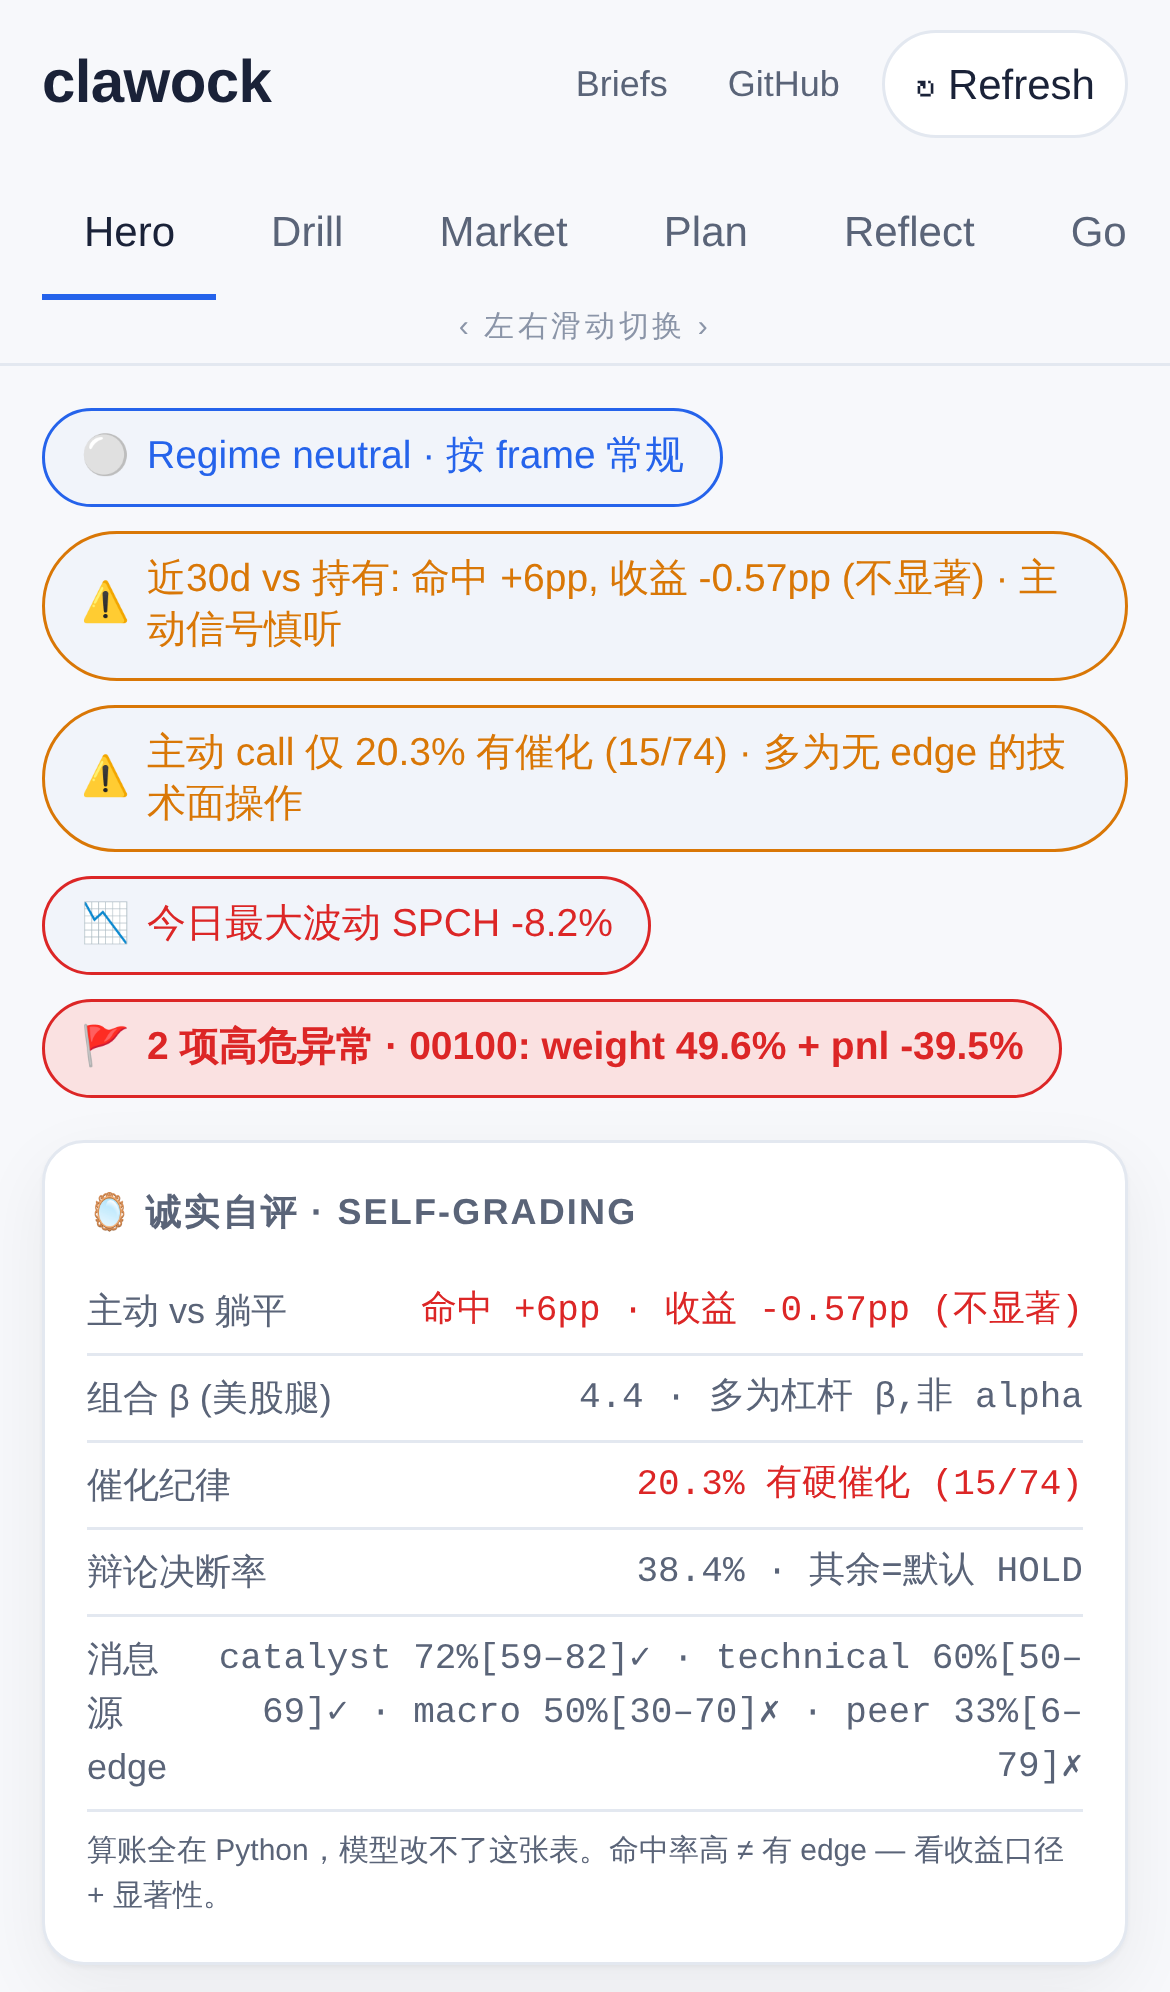
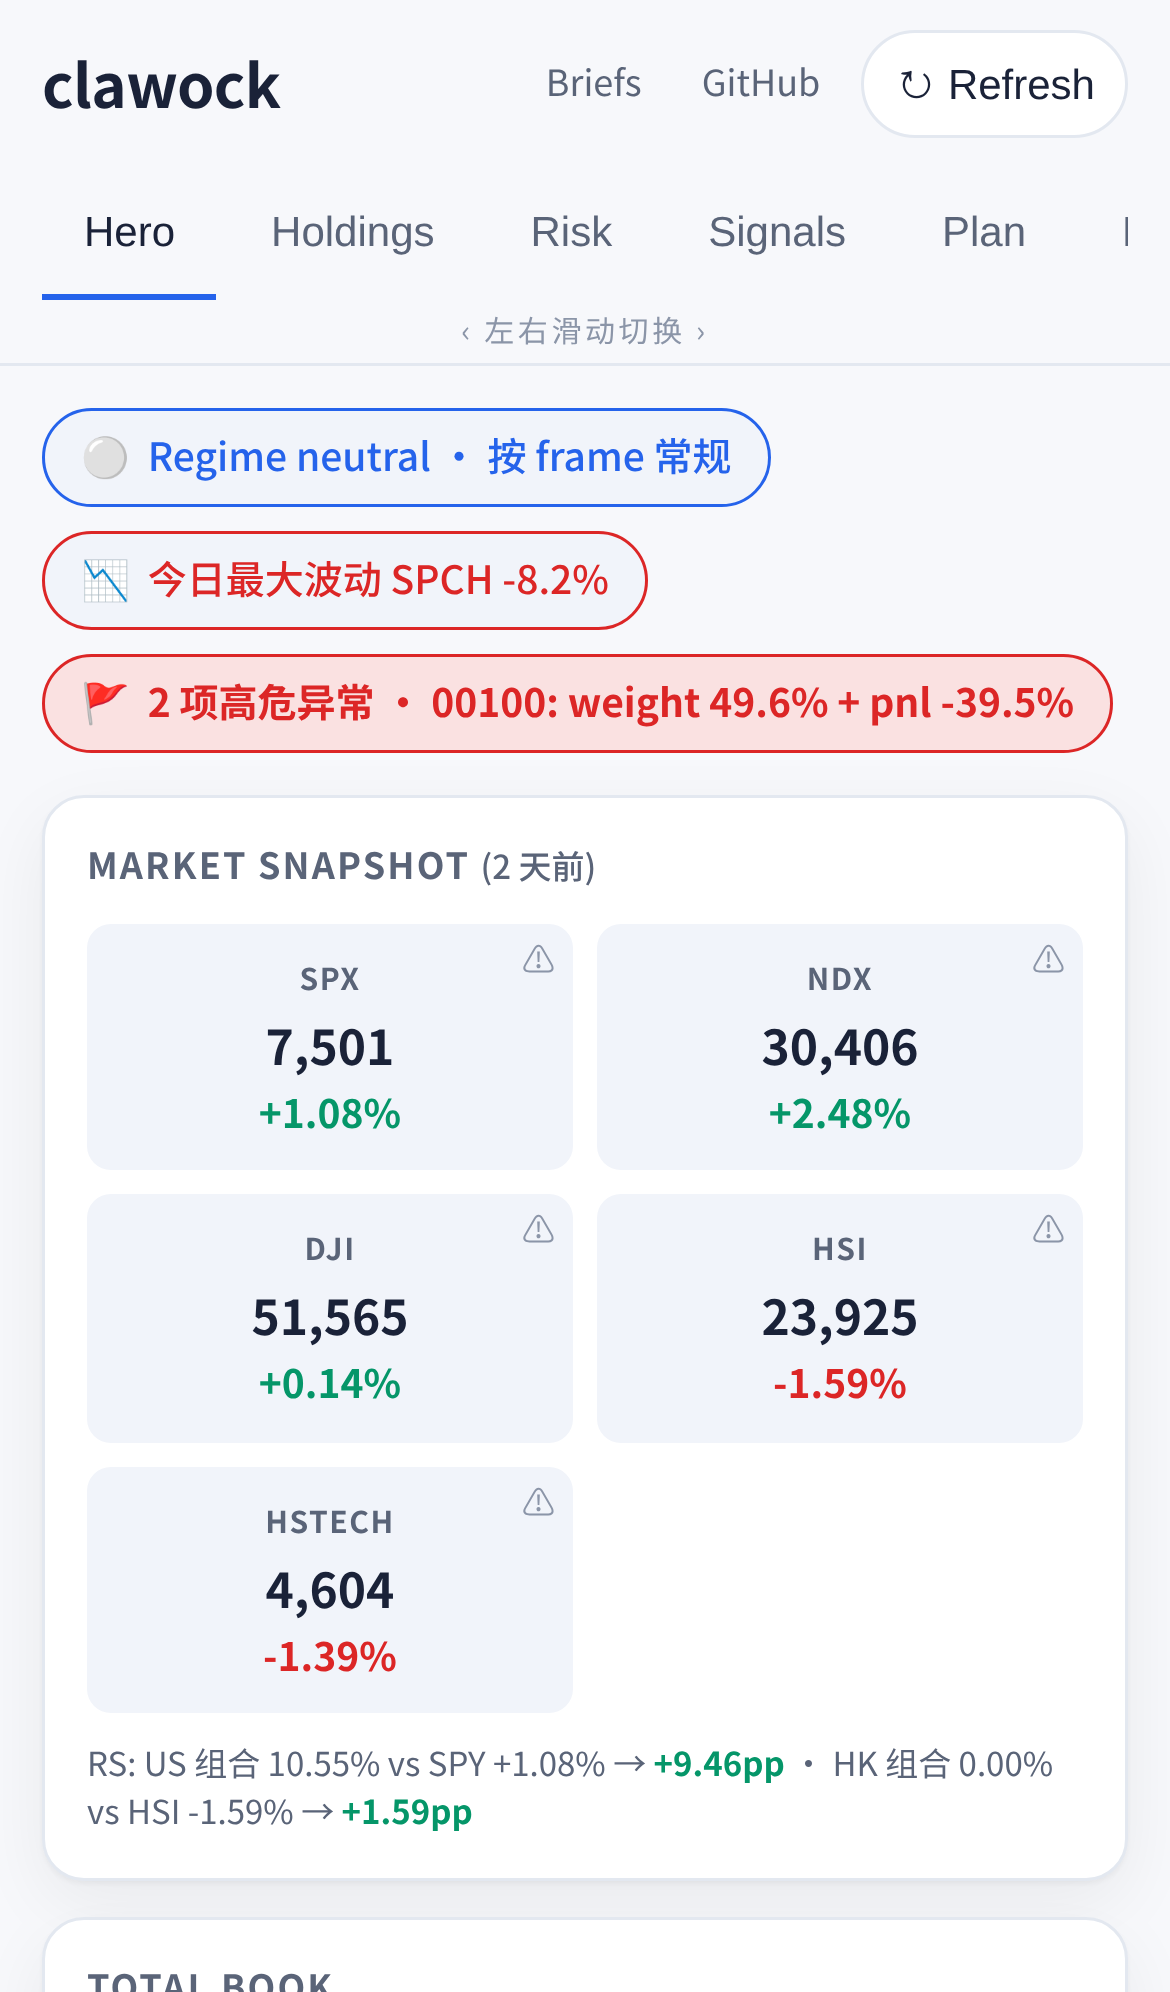
docs(readme): document shadow-backtest curve + refresh screenshots (English tabs)
• README (EN+ZH): add the '如果全听 AI' counterfactual curve to the honesty
  section — the Reflect-tab plot of active-only cumulative benefit (-33pp T+1)
  vs a do-nothing baseline; the visual proof of 'active calls underperform hold'.
• Regenerated docs/dashboard-preview.png + dashboard-mobile.png from the
  redesigned dashboard (6 tabs, English labels, slimmed Hero).
• shoot_dashboard.js: settle() waits on hero content, not a <canvas> — the Hero
  tab has no chart now (charts lazy-load per tab), so the old canvas wait would
  hang the full 45s on every weekly refresh.

diff --git a/scripts/data/shoot_dashboard.js b/scripts/data/shoot_dashboard.js
@@ -20,9 +20,14 @@ const URL = process.env.URL || 'https://kcnyu.github.io/clawock/';
 const OUT_DIR = process.env.OUT_DIR || 'docs';
 
 async function settle(page) {
-  // ECharts renders into <canvas>; wait for at least one to exist, then let animations finish.
-  await page.waitForSelector('canvas', { timeout: 45000 }).catch(() => {});
-  await page.waitForTimeout(3500);
+  // The landing (Hero) tab has NO chart since charts lazy-load per tab (2026-06-22),
+  // so the old canvas wait would hang the full 45s timeout. Wait for the hero panel
+  // to actually populate instead, then let layout/fonts settle.
+  await page.waitForFunction(
+    () => { const h = document.querySelector('[data-panel=hero]'); return h && h.textContent.trim().length > 200; },
+    { timeout: 45000 },
+  ).catch(() => {});
+  await page.waitForTimeout(2500);
 }
 
 (async () => {

diff --git a/README.md b/README.md
@@ -66,6 +66,8 @@ So I can tell you, with receipts, how the AI is *actually* doing:
 
 > Read that again: on this sample, **the model's active signals underperform simply holding.** The system *says so itself*, in public, because the scorecard is computed in Python and the LLM isn't allowed to fudge it. The honesty is the feature — most of the value of an "AI analyst" is knowing when to ignore it.
 
+**There's now a curve for it.** A counterfactual *"if you'd followed every call"* backtest (the LLM only advises — execution is always mine) reuses the same direction-signed benefit% the scorecard already logs, and plots it against a `do-nothing = 0` baseline on the **Reflect** tab. The active-only line sits **−33pp below doing nothing** (T+1; −46pp at T+5), while the "all signals" line's +474pp is almost entirely `hold` = market β. You can *watch* the active calls bleed relative to a hold.
+
 <sub>Numbers are point-in-time from `memory/calibration.csv`, `quant_signal_review.json`, `t0_setup_review.json` and move as samples grow. Factors with n < 20 are shown but **barred from influencing decisions** until they earn it.</sub>
 
 **The scorecard is built not to fool itself.** Three guards stop a noisy number from masquerading as edge:

diff --git a/README.zh.md b/README.zh.md
@@ -66,6 +66,8 @@
 
 > 再读一遍:在这个样本上,**模型的主动信号跑输了单纯持有。** 系统*自己公开说了*,因为这张战绩表是用 Python 算的,LLM 没权限作弊。诚实本身就是功能 —— 一个"AI 分析师"大半的价值,在于知道什么时候该无视它。
 
+**现在还有一条曲线。** 一个**「如果你全听它」**的反事实回测(LLM 只给建议,执行权始终在我),复用战绩表已经记的方向化 benefit%,在 **Reflect** tab 上对着一条 `不动 = 0` 基线画出来:**仅主动建议**那条线一路在 0 以下、累计 **−33pp**(T+1;T+5 是 −46pp),而**全部信号**那条 +474pp 几乎全是 `hold` = 市场 β。主动操作相对躺平怎么一点点失血,你能*亲眼看着*。
+
 <sub>数字来自 `memory/calibration.csv`、`quant_signal_review.json`、`t0_setup_review.json`,随样本增长而变动。n < 20 的因子只展示、**禁止进入决策**,直到它用命中率挣到话语权。</sub>
 
 **这张战绩表被设计成「骗不了自己」。** 三道闸挡住"噪音冒充 edge":
